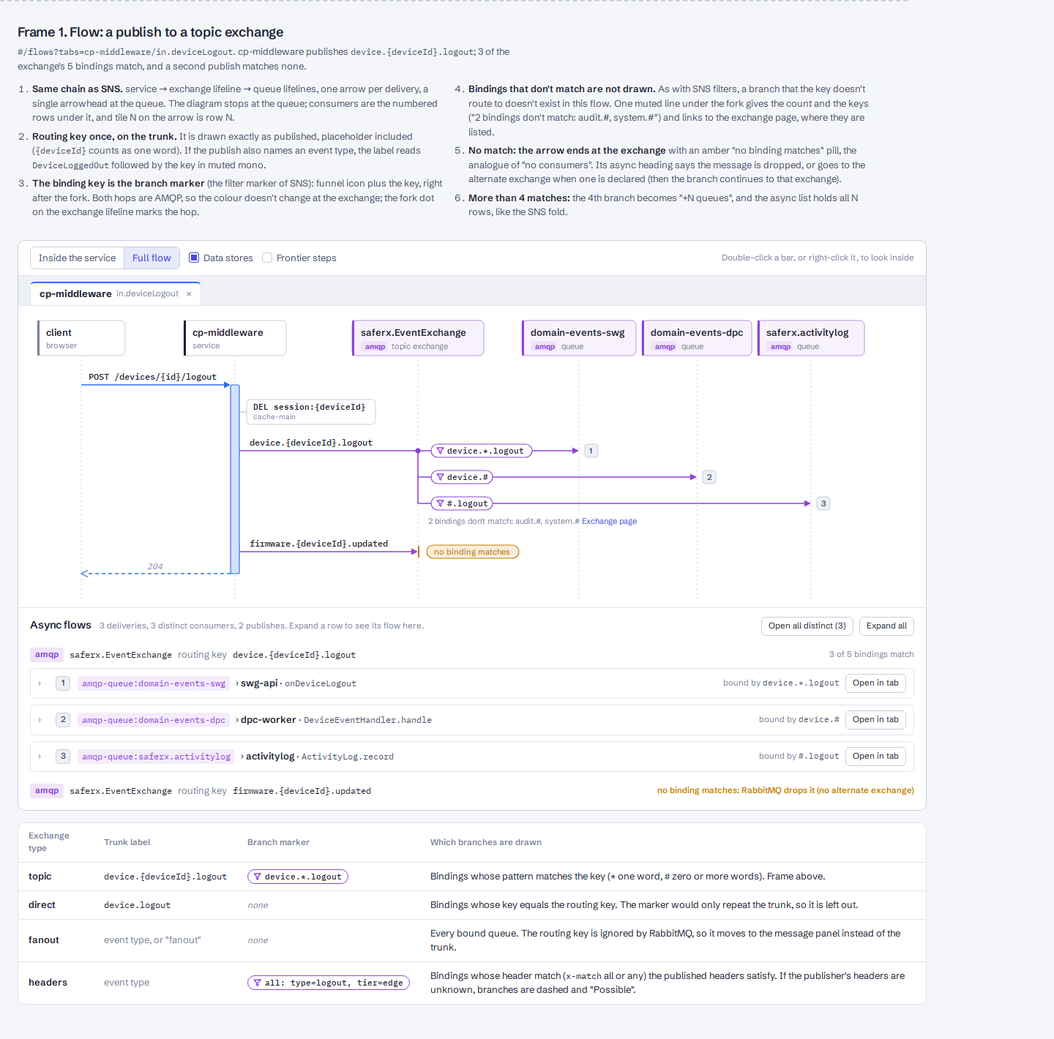
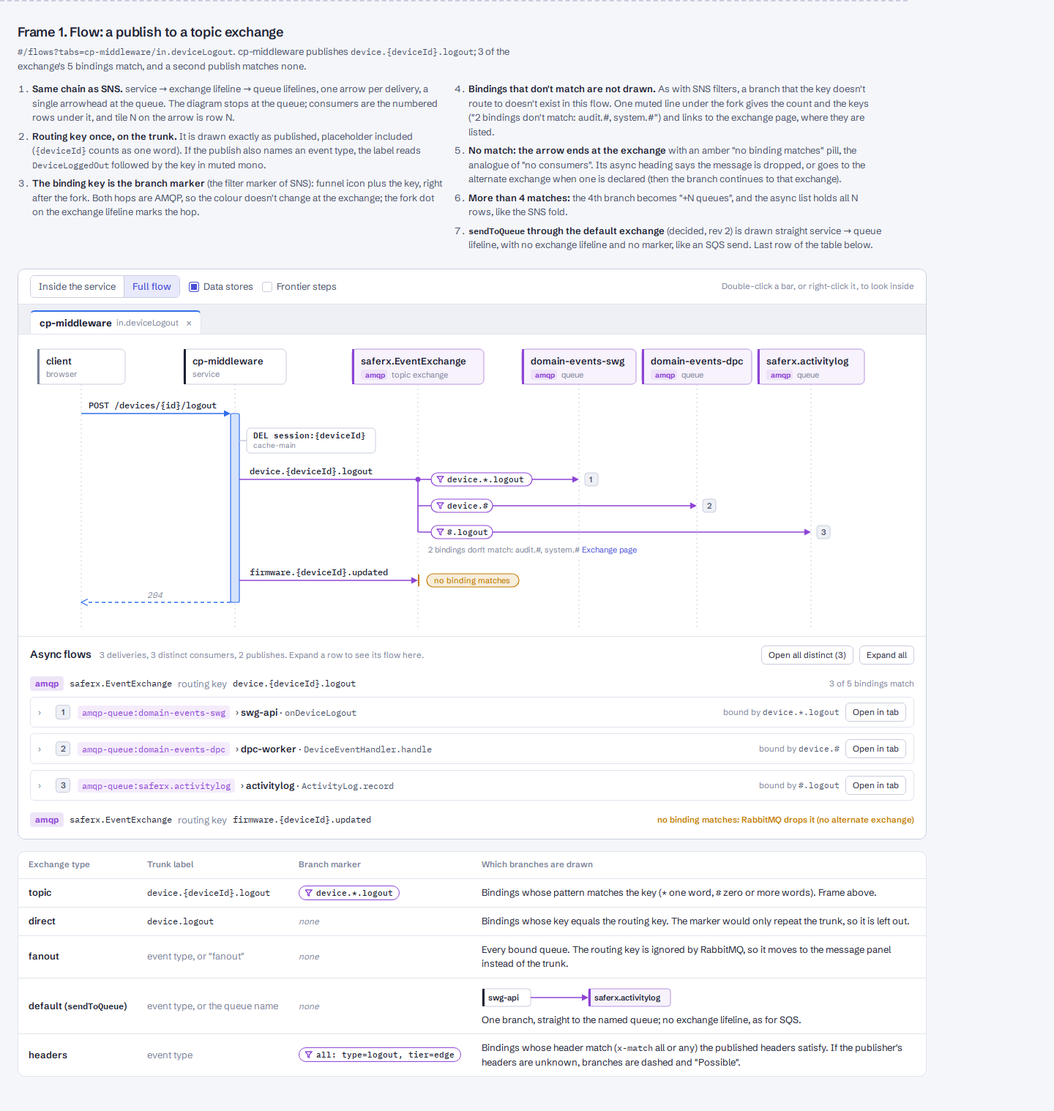
Mockup: RabbitMQ rev 2 (RPC over AMQP in olive, AMQP messages in grape, sendToQueue drawn straight to the queue, decisions recorded)

diff --git a/design/mockups/rabbitmq.html b/design/mockups/rabbitmq.html
@@ -76,8 +76,9 @@ table.spec { width: 100%; border-collapse: collapse; font-size: var(--fs-xs); }
 .kind.amqp { background: color-mix(in srgb, var(--t-amqp) 14%, var(--surface)); color: var(--t-amqp); }
 .kind.http { background: color-mix(in srgb, var(--t-http) 12%, var(--surface)); color: var(--t-http); }
 .kind.res { background: var(--surface-2); color: var(--ink-2); }
+.kind.rpc { background: color-mix(in srgb, var(--t-rpc) 14%, var(--surface)); color: var(--t-rpc); }
 .kind .ln { width: 12px; height: 2px; background: currentColor; border-radius: 1px; }
-.rpcchip { display: inline-flex; align-items: center; gap: 4px; height: 18px; padding: 0 6px; border-radius: 9px; border: 1px solid var(--t-amqp); color: var(--t-amqp); font: 600 10.5px/1 var(--font); background: var(--surface); white-space: nowrap; }
+.rpcchip { display: inline-flex; align-items: center; gap: 4px; height: 18px; padding: 0 6px; border-radius: 9px; border: 1px solid var(--t-rpc); color: var(--t-rpc); font: 600 10.5px/1 var(--font); background: var(--surface); white-space: nowrap; }
 .rpcchip svg { width: 11px; height: 11px; stroke: currentColor; fill: none; stroke-width: 1.6; }
 .btn { display: inline-flex; align-items: center; height: 30px; padding: 0 12px; border: 1px solid var(--line-strong); border-radius: var(--r-sm); color: var(--accent); background: var(--surface); font-size: var(--fs-sm); white-space: nowrap; }
 .btn.sm { height: 26px; padding: 0 9px; font-size: var(--fs-xs); color: var(--ink); }
@@ -114,11 +115,12 @@ svg text { font-family: var(--mono); }
 .rchip { fill: color-mix(in srgb, var(--t-amqp) 15%, var(--surface)); }
 .ll { stroke: var(--line-strong); stroke-dasharray: 2 4; }
 .s { fill: none; stroke-width: 1.6; }
-.s.http { stroke: var(--t-http); } .s.amqp { stroke: var(--t-amqp); } .s.bad { stroke: var(--t-broken); stroke-dasharray: 5 4; }
+.s.http { stroke: var(--t-http); } .s.rpc { stroke: var(--t-rpc); } .s.amqp { stroke: var(--t-amqp); } .s.bad { stroke: var(--t-broken); stroke-dasharray: 5 4; }
 .s.ret { stroke-dasharray: 5 4; stroke-width: 1.3; }
-.f-http { fill: var(--t-http); } .f-amqp { fill: var(--t-amqp); } .f-bad { fill: var(--t-broken); } .f-warn { fill: var(--warn); }
-.o-http { fill: none; stroke: var(--t-http); stroke-width: 1.3; } .o-amqp { fill: none; stroke: var(--t-amqp); stroke-width: 1.3; }
+.f-http { fill: var(--t-http); } .f-rpc { fill: var(--t-rpc); } .f-amqp { fill: var(--t-amqp); } .f-bad { fill: var(--t-broken); } .f-warn { fill: var(--warn); }
+.o-http { fill: none; stroke: var(--t-http); stroke-width: 1.3; } .o-amqp { fill: none; stroke: var(--t-amqp); stroke-width: 1.3; } .o-rpc { fill: none; stroke: var(--t-rpc); stroke-width: 1.3; }
 .bar-http { fill: color-mix(in srgb, var(--t-http) 20%, var(--surface)); stroke: var(--t-http); stroke-width: 1.2; }
+.bar-rpc { fill: color-mix(in srgb, var(--t-rpc) 22%, var(--surface)); stroke: var(--t-rpc); stroke-width: 1.2; }
 .bar-amqp { fill: color-mix(in srgb, var(--t-amqp) 22%, var(--surface)); stroke: var(--t-amqp); stroke-width: 1.2; }
 .lbl { font: 500 11.5px var(--mono); fill: var(--ink); }
 .lbl.bad { fill: var(--t-broken); }
@@ -130,16 +132,16 @@ svg text { font-family: var(--mono); }
 .pill.warn text { font: 500 11px var(--font); fill: var(--warn); }
 .pill.bad rect { fill: color-mix(in srgb, var(--t-broken) 10%, var(--surface)); stroke: var(--t-broken); }
 .pill.bad text { font: 600 10.5px var(--font); fill: var(--t-broken); }
-.pill.rpc text { font: 600 10.5px var(--font); fill: var(--t-amqp); }
+.pill.rpc rect { stroke: var(--t-rpc); } .pill.rpc path { stroke: var(--t-rpc); } .pill.rpc text { font: 600 10.5px var(--font); fill: var(--t-rpc); }
 .tile rect { fill: var(--surface-2); stroke: var(--line-strong); }
 .tile text { font: 600 11px var(--font); fill: var(--ink-2); }
 .store rect { fill: var(--surface); stroke: var(--line-strong); }
 .store .k { font: 600 11px var(--mono); fill: var(--ink); } .store .c { font: 400 10px var(--font); fill: var(--muted); }
 .note-bg { fill: var(--surface); }
 .note { font: 400 11px var(--font); fill: var(--muted); } .note a, .note .lk { fill: var(--accent); }
-.halo { fill: none; stroke: var(--t-amqp); stroke-opacity: .2; stroke-width: 10; stroke-linecap: round; }
+.halo { fill: none; stroke: var(--t-rpc); stroke-opacity: .2; stroke-width: 10; stroke-linecap: round; }
 .loopb rect { fill: var(--surface-2); stroke: var(--line-strong); } .loopb text { font: 600 10.5px var(--font); fill: var(--ink-2); }
-.glyph { fill: var(--surface); stroke: var(--t-amqp); stroke-width: 1.3; }
+
 
 /* Async list */
 .async { background: var(--surface); border-top: 1px solid var(--line); padding: var(--s3) var(--s4) var(--s4); display: grid; gap: var(--s2); }
@@ -228,6 +230,7 @@ table.t { width: 100%; border-collapse: collapse; font-size: var(--fs-sm); }
 .inv-top h1 { font-size: var(--fs-lg); }
 .t .typ { color: var(--ink-2); white-space: nowrap; }
 .t .kindc { font: 700 var(--fs-xs) var(--font); padding: 2px 7px; border-radius: 4px; background: var(--surface-2); color: var(--ink-2); white-space: nowrap; }
+.t .kindc.rpc { background: color-mix(in srgb, var(--t-rpc) 14%, var(--surface)); color: var(--t-rpc); }
 .t .kindc.amqp { background: color-mix(in srgb, var(--t-amqp) 12%, var(--surface)); color: var(--t-amqp); }
 .t .prob { text-align: right; color: var(--muted); } .t .prob.bad { color: var(--bad); font-weight: 600; }
 .t .nm { font-family: var(--mono); font-weight: 600; white-space: nowrap; }
@@ -250,6 +253,7 @@ table.t { width: 100%; border-collapse: collapse; font-size: var(--fs-sm); }
 .ep .s2 a { white-space: nowrap; }
 .ep.http { box-shadow: inset -3px 0 0 var(--t-http); }
 .ep.out { box-shadow: inset 3px 0 0 var(--t-amqp); }
+.ep.rpc { box-shadow: inset -3px 0 0 var(--t-rpc); } .ep.out.rpc { box-shadow: inset 3px 0 0 var(--t-rpc); }
 .center { border: 2px solid var(--ink); border-radius: 12px; background: var(--surface); padding: var(--s4); text-align: center; display: grid; gap: 8px; font-size: var(--fs-sm); color: var(--ink-2); }
 .center b { font-size: var(--fs-md); color: var(--ink); }
 .callers { display: grid; gap: 0; }
@@ -259,18 +263,18 @@ table.t { width: 100%; border-collapse: collapse; font-size: var(--fs-sm); }
 .caller .mono { color: var(--ink-2); }
 
 @media (max-width: 1100px) { .split { grid-template-columns: 1fr; } .split > .pane { border-left: 0; border-top: 1px solid var(--line); } .svcgrid { grid-template-columns: 1fr; } }
-@media (max-width: 760px) { .stage, .frame-label, .chrome { padding-left: 16px; padding-right: 16px; } .arow { grid-template-columns: 16px 22px 1fr; } .arow .by, .arow .btn { display: none; } .tester input { width: 100%; } }
+@media (max-width: 760px) { .stage, .frame-label, .chrome { padding-left: 16px; padding-right: 16px; } .arow { grid-template-columns: 16px 22px 1fr; } .arow .q, .arow .who { grid-column: 3; justify-self: start; } .arow .by, .arow .btn { display: none; } .tester input { width: 100%; } }
 </style>
 </head>
 <body>
 
 <div class="chrome">
   <h1>RabbitMQ: topic exchanges, bindings and RPC over queues</h1>
-  <p class="lead">Static mockup for the maintainer. Data: what the harvester found in a real Node service (namespace <span class="mono">saferx</span>): a topic exchange <span class="mono">saferx.EventExchange</span> with queues bound by key, and many in-house RPCv2 commands such as <span class="mono">rpc.sxdns.dns.resolve</span>. Five frames: two flow diagrams, the exchange page, the inventory and the RPC server's service page. Tokens, chips, toolbar, tabs and the docked panel are the app's own (0.17.3); the app rail is left out.</p>
+  <p class="lead"><b>Revision 2</b> (the maintainer's answers applied; see "Decided" at the end). Static mockup for the maintainer. Data: what the harvester found in a real Node service (namespace <span class="mono">saferx</span>): a topic exchange <span class="mono">saferx.EventExchange</span> with queues bound by key, and many in-house RPCv2 commands such as <span class="mono">rpc.sxdns.dns.resolve</span>. Five frames: two flow diagrams, the exchange page, the inventory and the RPC server's service page. Tokens, chips, toolbar, tabs and the docked panel are the app's own (0.17.3); the app rail is left out.</p>
   <div class="theme" role="group" aria-label="Theme"><button data-t="system" aria-pressed="true">System</button><button data-t="light" aria-pressed="false">Light</button><button data-t="dark" aria-pressed="false">Dark</button></div>
   <ol class="decisions">
-    <li><b>AMQP colour: keep the token, retune it.</b> <span class="mono">--t-amqp</span> already exists (violet <span class="mono">#8a5cf0</span>), but beside the indigo accent (links, "internal calls" pills, selected tab) and <span class="mono">--flow-5</span> it reads as the same family. Proposal: grape <span class="mono">#8e44d6</span> light, <span class="mono">#c58cff</span> dark: 30° further from the accent, still clear of EventBridge pink and <span class="mono">--flow-6</span>, over 5:1 on white. RabbitMQ's brand orange is out: it is SNS.</li>
-    <li><b>Colour is the wire, shape is the mode.</b> A publish and an RPC call are both AMQP, so both are grape. A publish is a chain service → exchange → queue that ends at the queue. An RPC is a solid request into the server's bar with a dashed reply, like HTTP. The "amqp rpc" chip tells the two apart, so <span class="mono">--t-rpc</span> (olive) stays for RPC frameworks with their own wire.</li>
+    <li><b>AMQP colour: keep the token, retune it</b> (decided, rev 2). <span class="mono">--t-amqp</span> already exists (violet <span class="mono">#8a5cf0</span>), but beside the indigo accent (links, "internal calls" pills, selected tab) and <span class="mono">--flow-5</span> it reads as the same family. Now grape <span class="mono">#8e44d6</span> light, <span class="mono">#c58cff</span> dark: 30° further from the accent, still clear of EventBridge pink and <span class="mono">--flow-6</span>, over 5:1 on white. RabbitMQ's brand orange is out: it is SNS.</li>
+    <li><b>Grape is messages, olive is request and reply</b> (decided, rev 2). Exchange publishes, queue deliveries, exchange and queue chips, the exchange page and inventory rows are grape <span class="mono">--t-amqp</span>. RPC over AMQP is olive <span class="mono">--t-rpc</span> everywhere: the arrow, the reply, the server's bar entered by RPC, the "amqp rpc" chip, the RPC ingress group, RPC inventory rows and panel accents. The chip and the panel still say the wire is AMQP. Frame 2b has both in one flow.</li>
   </ol>
   <div class="swatches">
     <span class="sw"><i style="background:var(--t-amqp-old)"></i>--t-amqp today</span>
@@ -295,6 +299,7 @@ table.t { width: 100%; border-collapse: collapse; font-size: var(--fs-sm); }
     <li><b>Bindings that don't match are not drawn.</b> As with SNS filters, a branch that the key doesn't route to doesn't exist in this flow. One muted line under the fork gives the count and the keys ("2 bindings don't match: audit.#, system.#") and links to the exchange page, where they are listed.</li>
     <li><b>No match: the arrow ends at the exchange</b> with an amber "no binding matches" pill, the analogue of "no consumers". Its async heading says the message is dropped, or goes to the alternate exchange when one is declared (then the branch continues to that exchange).</li>
     <li><b>More than 4 matches:</b> the 4th branch becomes "+N queues", and the async list holds all N rows, like the SNS fold.</li>
+    <li><b><span class="mono">sendToQueue</span> through the default exchange</b> (decided, rev 2) is drawn straight service → queue lifeline, with no exchange lifeline and no marker, like an SQS send. Last row of the table below.</li>
   </ol>
 </div>
 <div class="stage"><div class="window">
@@ -358,6 +363,7 @@ table.t { width: 100%; border-collapse: collapse; font-size: var(--fs-sm); }
       <tr><td>topic</td><td><span class="mono">device.{deviceId}.logout</span></td><td><span class="mk"><svg viewBox="0 0 10 10"><path d="M0 1h9l-3.5 4v4l-2-1v-3z"/></svg>device.*.logout</span></td><td>Bindings whose pattern matches the key (<span class="mono">*</span> one word, <span class="mono">#</span> zero or more words). Frame above.</td></tr>
       <tr><td>direct</td><td><span class="mono">device.logout</span></td><td><span class="nomk">none</span></td><td>Bindings whose key equals the routing key. The marker would only repeat the trunk, so it is left out.</td></tr>
       <tr><td>fanout</td><td><span class="muted">event type, or "fanout"</span></td><td><span class="nomk">none</span></td><td>Every bound queue. The routing key is ignored by RabbitMQ, so it moves to the message panel instead of the trunk.</td></tr>
+      <tr><td>default (<span class="mono">sendToQueue</span>)</td><td><span class="muted">event type, or the queue name</span></td><td><span class="nomk">none</span></td><td><svg viewBox="0 0 260 34" width="260" height="34" style="display:block;margin-bottom:4px" aria-label="swg-api sends straight to the queue saferx.activitylog"><rect class="hd" x="1" y="5" width="66" height="24" rx="4"/><rect class="st-svc" x="1" y="5" width="3" height="24"/><text class="tn" x="9" y="21" style="font-size:11px">swg-api</text><line class="s amqp" x1="67" y1="17" x2="139" y2="17"/><polygon class="f-amqp" points="146,17 137,12.5 137,21.5"/><rect class="hd amqp" x="146" y="5" width="112" height="24" rx="4"/><rect class="st-amqp" x="146" y="5" width="3" height="24"/><text class="tn" x="154" y="21" style="font-size:11px">saferx.activitylog</text></svg>One branch, straight to the named queue; no exchange lifeline, as for SQS.</td></tr>
       <tr><td>headers</td><td><span class="muted">event type</span></td><td><span class="mk"><svg viewBox="0 0 10 10"><path d="M0 1h9l-3.5 4v4l-2-1v-3z"/></svg>all: type=logout, tier=edge</span></td><td>Bindings whose header match (<span class="mono">x-match</span> all or any) the published headers satisfy. If the publisher's headers are unknown, branches are dashed and "Possible".</td></tr>
     </tbody>
   </table>
@@ -369,9 +375,9 @@ table.t { width: 100%; border-collapse: collapse; font-size: var(--fs-sm); }
   <h2>Frame 2. Flow: RPC over queues, drawn as a call</h2>
   <p><span class="mono">#/flows?tabs=swg-api/in.policyCheck</span>, with the first RPC arrow selected and its panel docked on the right (it squeezes the diagram; it never overlays it).</p>
   <ol class="decisions">
-    <li><b>An RPC is a sync call.</b> A solid grape arrow from the caller's bar into the server's bar, labelled with the command, then a dashed grape "reply". The command queue, reply queue and exchange are not lifelines: they are plumbing, and they live in the panel.</li>
-    <li><b>The server gets a normal activation bar</b>, coloured by the transport that entered it (grape), with its own stores, calls and nested RPCs. "Show inside sxdns" works as for HTTP.</li>
-    <li><b>Chip "amqp rpc"</b> under the command (the ⇄ icon means request and reply). It is what separates an RPC from an AMQP publish, which never has a reply and ends at a queue.</li>
+    <li><b>An RPC is a sync call.</b> A solid olive (<span class="mono">--t-rpc</span>) arrow from the caller's bar into the server's bar, labelled with the command, then a dashed olive "reply". The command queue, reply queue and exchange are not lifelines: they are plumbing, and they live in the panel.</li>
+    <li><b>The server gets a normal activation bar</b>, coloured by what entered it: olive for an RPC, with its own stores, calls and nested RPCs. "Show inside sxdns" works as for HTTP.</li>
+    <li><b>Chip "amqp rpc"</b> under the command (the ⇄ icon means request and reply). It says the wire is AMQP; the olive colour says it is a call. A grape AMQP publish never has a reply and ends at a queue (frame 2b shows both side by side).</li>
     <li><b>Panel:</b> command, caller and server with handler and source links, then the AMQP details (exchange, command queue, reply queue, correlation, timeout, library). Hover shows the same as a tooltip, in short.</li>
     <li><b>No harvested server:</b> red dashed arrow to the "unresolved" lifeline, the command in red, the chip "no server harvested", and no reply, as unresolved HTTP today. The panel says which harvester to look for: the one that consumes <span class="mono">rpcv2.policy</span>.</li>
     <li><b>Timeout:</b> when the harvester knows the call has a timeout handler, the reply reads "reply or timeout 5 s"; otherwise just "reply".</li>
@@ -394,19 +400,19 @@ table.t { width: 100%; border-collapse: collapse; font-size: var(--fs-sm); }
     <rect class="bar-http" x="214" y="96" width="12" height="286" rx="2"/>
     <!-- rpc 1 (selected) -->
     <line class="halo" x1="230" y1="140" x2="418" y2="140"/>
-    <line class="s amqp" x1="226" y1="140" x2="418" y2="140"/><polygon class="f-amqp" points="424,140 415,135.5 415,144.5"/>
+    <line class="s rpc" x1="226" y1="140" x2="418" y2="140"/><polygon class="f-rpc" points="424,140 415,135.5 415,144.5"/>
     <text class="lbl" x="240" y="133">rpc.sxdns.dns.resolve</text>
     <g class="pill rpc"><rect x="240" y="148" width="76" height="17" rx="8.5"/><path d="M248 153h9m-2.5-2.5 2.5 2.5-2.5 2.5M257 160h-9m2.5-2.5-2.5 2.5 2.5 2.5"/><text x="262" y="160.5">amqp rpc</text></g>
-    <rect class="bar-amqp" x="424" y="140" width="12" height="156" rx="2"/>
+    <rect class="bar-rpc" x="424" y="140" width="12" height="156" rx="2"/>
     <line class="s" style="stroke:var(--line-strong)" x1="436" y1="181" x2="446" y2="181"/>
     <g class="store"><rect x="446" y="164" width="150" height="34" rx="5"/><text class="k" x="455" y="178">GET dns:{domain}</text><text class="c" x="455" y="191">cache-main</text></g>
     <!-- rpc 2 nested -->
-    <line class="s amqp" x1="436" y1="230" x2="608" y2="230"/><polygon class="f-amqp" points="614,230 605,225.5 605,234.5"/>
+    <line class="s rpc" x1="436" y1="230" x2="608" y2="230"/><polygon class="f-rpc" points="614,230 605,225.5 605,234.5"/>
     <text class="lbl" x="450" y="223">rpc.cp.tenant.get</text>
     <g class="pill rpc"><rect x="450" y="238" width="76" height="17" rx="8.5"/><path d="M458 243h9m-2.5-2.5 2.5 2.5-2.5 2.5M467 250h-9m2.5-2.5-2.5 2.5 2.5 2.5"/><text x="472" y="250.5">amqp rpc</text></g>
-    <rect class="bar-amqp" x="614" y="230" width="12" height="38" rx="2"/>
-    <line class="s amqp ret" x1="614" y1="268" x2="444" y2="268"/><polyline class="o-amqp" points="445,263.5 436,268 445,272.5"/><text class="ret-t" x="530" y="262">reply</text>
-    <line class="s amqp ret" x1="424" y1="296" x2="234" y2="296"/><polyline class="o-amqp" points="235,291.5 226,296 235,300.5"/><text class="ret-t" x="250" y="290">reply or timeout 5 s</text>
+    <rect class="bar-rpc" x="614" y="230" width="12" height="38" rx="2"/>
+    <line class="s rpc ret" x1="614" y1="268" x2="444" y2="268"/><polyline class="o-rpc" points="445,263.5 436,268 445,272.5"/><text class="ret-t" x="530" y="262">reply</text>
+    <line class="s rpc ret" x1="424" y1="296" x2="234" y2="296"/><polyline class="o-rpc" points="235,291.5 226,296 235,300.5"/><text class="ret-t" x="250" y="290">reply or timeout 5 s</text>
     <!-- unresolved rpc -->
     <line class="s bad" x1="226" y1="336" x2="782" y2="336"/><polygon class="f-bad" points="790,336 781,331.5 781,340.5"/>
     <text class="lbl bad" x="630" y="329">rpc.policy.evaluate</text>
@@ -439,48 +445,52 @@ table.t { width: 100%; border-collapse: collapse; font-size: var(--fs-sm); }
 
 <div class="frame-label">
   <h2>Frame 2b. Many RPC calls in one flow</h2>
-  <p>cp-middleware's <span class="mono">in.deviceSync</span> makes 7 RPC calls to 3 services. Rules that keep it readable:</p>
+  <p>cp-middleware's <span class="mono">in.deviceSync</span> (entered over HTTP) makes 7 RPC calls to 3 services, then publishes one event. Rules that keep it readable:</p>
   <ol class="decisions">
     <li><b>The command is never shortened.</b> It is the subject of the arrow. It wraps after a dot when it is wider than the hop.</li>
     <li><b>The chip shows once per caller and server pair</b> (the first call); later calls to the same server get only the small ⇄ glyph at the arrow's start.</li>
     <li><b>Only the first reply per pair is labelled.</b> The others are bare dashed returns, unless they have a timeout, which is always written.</li>
     <li><b>A call made in a loop is one arrow with "×3 loop"</b>, taken from the loop frame of the steps; it is not drawn three times.</li>
+    <li><b>Olive and grape in one flow:</b> the RPCs are olive with replies; the last row is a grape publish to <span class="mono">saferx.EventExchange</span> with no reply and no bar (queue lifelines folded in this frame).</li>
     <li><b>Toolbar "RPC replies: Show | Hide"</b> (default Show). Hide turns each request and reply into a single arrow with a return tick on the server's bar, which halves the height of RPC-heavy flows.</li>
   </ol>
 </div>
 <div class="stage"><div class="window">
   <div class="diagram">
-  <svg viewBox="0 0 960 376" width="960" height="376" role="img" aria-label="cp-middleware calls five RPC commands on sxdns, activitylog and swg-api">
+  <svg viewBox="0 0 1160 420" width="1160" height="420" role="img" aria-label="cp-middleware calls five RPC commands on sxdns, activitylog and swg-api">
     <rect class="hd" x="40" y="8" width="140" height="48" rx="6"/><rect class="st-svc" x="40" y="8" width="3" height="48"/><text class="tn" x="52" y="29">cp-middleware</text><text class="ts" x="52" y="46">service</text>
     <rect class="hd" x="330" y="8" width="120" height="48" rx="6"/><rect class="st-svc" x="330" y="8" width="3" height="48"/><text class="tn" x="342" y="29">sxdns</text><text class="ts" x="342" y="46">service</text>
     <rect class="hd" x="560" y="8" width="130" height="48" rx="6"/><rect class="st-svc" x="560" y="8" width="3" height="48"/><text class="tn" x="572" y="29">activitylog</text><text class="ts" x="572" y="46">service</text>
     <rect class="hd" x="790" y="8" width="120" height="48" rx="6"/><rect class="st-svc" x="790" y="8" width="3" height="48"/><text class="tn" x="802" y="29">swg-api</text><text class="ts" x="802" y="46">service</text>
-    <line class="ll" x1="110" y1="56" x2="110" y2="374"/><line class="ll" x1="390" y1="56" x2="390" y2="374"/><line class="ll" x1="625" y1="56" x2="625" y2="374"/><line class="ll" x1="850" y1="56" x2="850" y2="374"/>
-    <rect class="bar-amqp" x="104" y="70" width="12" height="298" rx="2"/>
-    <line class="s amqp" x1="116" y1="96" x2="378" y2="96"/><polygon class="f-amqp" points="384,96 375,91.5 375,100.5"/><text class="lbl" x="130" y="89">rpc.sxdns.dns.resolve</text>
+    <line class="ll" x1="110" y1="56" x2="110" y2="416"/><line class="ll" x1="390" y1="56" x2="390" y2="416"/><line class="ll" x1="625" y1="56" x2="625" y2="416"/><line class="ll" x1="850" y1="56" x2="850" y2="416"/>
+    <rect class="hd amqp" x="950" y="8" width="172" height="48" rx="6"/><rect class="st-amqp" x="950" y="8" width="3" height="48"/><text class="tn" x="962" y="29">saferx.EventExchange</text><rect class="rchip" x="962" y="36" width="36" height="14" rx="3"/><text class="tchip" x="968" y="47">amqp</text><text class="ts" x="1004" y="47">topic exchange</text>
+    <line class="ll" x1="1036" y1="56" x2="1036" y2="416"/>
+    <rect class="bar-http" x="104" y="70" width="12" height="336" rx="2"/>
+    <line class="s amqp" x1="116" y1="392" x2="1036" y2="392"/><circle class="f-amqp" cx="1036" cy="392" r="3.5"/><text class="lbl" x="130" y="385">audit.device.synced</text><text class="note" x="1044" y="388">→ domain-events</text><text class="note" x="1044" y="401">via audit.#</text>
+    <line class="s rpc" x1="116" y1="96" x2="378" y2="96"/><polygon class="f-rpc" points="384,96 375,91.5 375,100.5"/><text class="lbl" x="130" y="89">rpc.sxdns.dns.resolve</text>
     <g class="pill rpc"><rect x="286" y="74" width="76" height="17" rx="8.5"/><path d="M294 79h9m-2.5-2.5 2.5 2.5-2.5 2.5M303 86h-9m2.5-2.5-2.5 2.5 2.5 2.5"/><text x="308" y="86.5">amqp rpc</text></g>
-    <rect class="bar-amqp" x="384" y="96" width="12" height="26" rx="2"/>
-    <line class="s amqp ret" x1="384" y1="122" x2="124" y2="122"/><polyline class="o-amqp" points="125,117.5 116,122 125,126.5"/>
+    <rect class="bar-rpc" x="384" y="96" width="12" height="26" rx="2"/>
+    <line class="s rpc ret" x1="384" y1="122" x2="124" y2="122"/><polyline class="o-rpc" points="125,117.5 116,122 125,126.5"/>
     <text class="ret-t" x="339" y="116">reply</text>
-    <path d="M120 150h8m-2-2 2 2-2 2M128 155h-8m2-2-2 2 2 2" style="fill:none;stroke:var(--t-amqp);stroke-width:1.2"/>
-    <line class="s amqp" x1="132" y1="156" x2="378" y2="156"/><polygon class="f-amqp" points="384,156 375,151.5 375,160.5"/><text class="lbl" x="140" y="149">rpc.sxdns.zone.get</text>
-    <rect class="bar-amqp" x="384" y="156" width="12" height="26" rx="2"/>
-    <line class="s amqp ret" x1="384" y1="182" x2="124" y2="182"/><polyline class="o-amqp" points="125,177.5 116,182 125,186.5"/>
-    <line class="s amqp" x1="116" y1="216" x2="613" y2="216"/><polygon class="f-amqp" points="619,216 610,211.5 610,220.5"/><text class="lbl" x="130" y="209">rpc.activitylog.write</text>
+    <path d="M120 150h8m-2-2 2 2-2 2M128 155h-8m2-2-2 2 2 2" style="fill:none;stroke:var(--t-rpc);stroke-width:1.2"/>
+    <line class="s rpc" x1="132" y1="156" x2="378" y2="156"/><polygon class="f-rpc" points="384,156 375,151.5 375,160.5"/><text class="lbl" x="140" y="149">rpc.sxdns.zone.get</text>
+    <rect class="bar-rpc" x="384" y="156" width="12" height="26" rx="2"/>
+    <line class="s rpc ret" x1="384" y1="182" x2="124" y2="182"/><polyline class="o-rpc" points="125,177.5 116,182 125,186.5"/>
+    <line class="s rpc" x1="116" y1="216" x2="613" y2="216"/><polygon class="f-rpc" points="619,216 610,211.5 610,220.5"/><text class="lbl" x="130" y="209">rpc.activitylog.write</text>
     <g class="loopb"><rect x="286" y="195" width="58" height="16" rx="4"/><text x="293" y="207">×3 loop</text></g>
     <g class="pill rpc"><rect x="352" y="194" width="76" height="17" rx="8.5"/><path d="M360 199h9m-2.5-2.5 2.5 2.5-2.5 2.5M369 206h-9m2.5-2.5-2.5 2.5 2.5 2.5"/><text x="374" y="206.5">amqp rpc</text></g>
-    <rect class="bar-amqp" x="619" y="216" width="12" height="26" rx="2"/>
-    <line class="s amqp ret" x1="619" y1="242" x2="124" y2="242"/><polyline class="o-amqp" points="125,237.5 116,242 125,246.5"/>
+    <rect class="bar-rpc" x="619" y="216" width="12" height="26" rx="2"/>
+    <line class="s rpc ret" x1="619" y1="242" x2="124" y2="242"/><polyline class="o-rpc" points="125,237.5 116,242 125,246.5"/>
     <text class="ret-t" x="574" y="236">reply</text>
-    <line class="s amqp" x1="116" y1="276" x2="838" y2="276"/><polygon class="f-amqp" points="844,276 835,271.5 835,280.5"/><text class="lbl" x="130" y="269">rpc.swg.policy.push</text>
+    <line class="s rpc" x1="116" y1="276" x2="838" y2="276"/><polygon class="f-rpc" points="844,276 835,271.5 835,280.5"/><text class="lbl" x="130" y="269">rpc.swg.policy.push</text>
     <g class="pill rpc"><rect x="272" y="254" width="76" height="17" rx="8.5"/><path d="M280 259h9m-2.5-2.5 2.5 2.5-2.5 2.5M289 266h-9m2.5-2.5-2.5 2.5 2.5 2.5"/><text x="294" y="266.5">amqp rpc</text></g>
-    <rect class="bar-amqp" x="844" y="276" width="12" height="26" rx="2"/>
-    <line class="s amqp ret" x1="844" y1="302" x2="124" y2="302"/><polyline class="o-amqp" points="125,297.5 116,302 125,306.5"/>
+    <rect class="bar-rpc" x="844" y="276" width="12" height="26" rx="2"/>
+    <line class="s rpc ret" x1="844" y1="302" x2="124" y2="302"/><polyline class="o-rpc" points="125,297.5 116,302 125,306.5"/>
     <text class="ret-t" x="693" y="296">reply or timeout 30 s</text>
-    <path d="M120 330h8m-2-2 2 2-2 2M128 335h-8m2-2-2 2 2 2" style="fill:none;stroke:var(--t-amqp);stroke-width:1.2"/>
-    <line class="s amqp" x1="132" y1="336" x2="378" y2="336"/><polygon class="f-amqp" points="384,336 375,331.5 375,340.5"/><text class="lbl" x="140" y="329">rpc.sxdns.cache.flush</text>
-    <rect class="bar-amqp" x="384" y="336" width="12" height="26" rx="2"/>
-    <line class="s amqp ret" x1="384" y1="362" x2="124" y2="362"/><polyline class="o-amqp" points="125,357.5 116,362 125,366.5"/>
+    <path d="M120 330h8m-2-2 2 2-2 2M128 335h-8m2-2-2 2 2 2" style="fill:none;stroke:var(--t-rpc);stroke-width:1.2"/>
+    <line class="s rpc" x1="132" y1="336" x2="378" y2="336"/><polygon class="f-rpc" points="384,336 375,331.5 375,340.5"/><text class="lbl" x="140" y="329">rpc.sxdns.cache.flush</text>
+    <rect class="bar-rpc" x="384" y="336" width="12" height="26" rx="2"/>
+    <line class="s rpc ret" x1="384" y1="362" x2="124" y2="362"/><polyline class="o-rpc" points="125,357.5 116,362 125,366.5"/>
   </svg>
   </div>
 </div></div>
@@ -555,6 +565,7 @@ table.t { width: 100%; border-collapse: collapse; font-size: var(--fs-sm); }
     <li><b>Exchanges and queues are ordinary rows</b> with the grape kind chip; an exchange's chip carries its type. Connections reads in the kind's own words ("3 publishers, 5 bindings"; "bound by audit.#, 1 consumer").</li>
     <li><b>RPC queues are hidden by default.</b> Command queues (<span class="mono">rpcv2.sxdns</span>) and reply queues are plumbing; the thing an engineer looks for is the command, which is listed as an entry point of its server (frame 5) and gets its own type "RPC command" in the All tab.</li>
     <li><b>One fold row says what is hidden</b> and why, with "Show RPC queues". Shown, they are muted rows whose Connections names the commands they carry. Reply queues are never listed one by one (one per caller process); they appear as one row per caller.</li>
+    <li><b>RPC rows are olive</b> (decided, rev 2): RPC commands in their tab and the RPC queues when shown carry the olive chip; exchanges and queues stay grape.</li>
     <li><b>The kind filter gets "AMQP"</b> next to the data-store chips, so exchanges, queues and RPC commands can be filtered together.</li>
   </ol>
 </div>
@@ -580,8 +591,8 @@ table.t { width: 100%; border-collapse: collapse; font-size: var(--fs-sm); }
   <p class="sm muted" style="margin:-8px 0 0">With "Show RPC queues" on, the fold row opens into muted rows:</p>
   <section class="section"><div class="scroll"><table class="t">
     <tbody>
-      <tr class="plumb"><td class="nm" style="color:var(--ink-2)"><svg viewBox="0 0 24 24"><rect x="3" y="7" width="18" height="10" rx="2"/><path d="M8 7v10M13 7v10"/></svg>rpcv2.sxdns</td><td class="typ">Channel</td><td><span class="kindc amqp">rpc command queue</span></td><td>dns</td><td>carries 4 commands of sxdns: <span class="mono">rpc.sxdns.dns.resolve</span>, <span class="mono">rpc.sxdns.zone.get</span>, +2 more</td><td class="prob">0</td></tr>
-      <tr class="plumb"><td class="nm" style="color:var(--ink-2)"><svg viewBox="0 0 24 24"><rect x="3" y="7" width="18" height="10" rx="2"/><path d="M8 7v10M13 7v10"/></svg>rpcv2.reply.swg-api.*</td><td class="typ">Channel</td><td><span class="kindc amqp">rpc reply queues</span></td><td>gateway</td><td>replies to swg-api's 3 commands, one exclusive queue per process</td><td class="prob">0</td></tr>
+      <tr class="plumb"><td class="nm" style="color:var(--ink-2)"><svg viewBox="0 0 24 24"><rect x="3" y="7" width="18" height="10" rx="2"/><path d="M8 7v10M13 7v10"/></svg>rpcv2.sxdns</td><td class="typ">Channel</td><td><span class="kindc rpc">rpc command queue</span></td><td>dns</td><td>carries 4 commands of sxdns: <span class="mono">rpc.sxdns.dns.resolve</span>, <span class="mono">rpc.sxdns.zone.get</span>, +2 more</td><td class="prob">0</td></tr>
+      <tr class="plumb"><td class="nm" style="color:var(--ink-2)"><svg viewBox="0 0 24 24"><rect x="3" y="7" width="18" height="10" rx="2"/><path d="M8 7v10M13 7v10"/></svg>rpcv2.reply.swg-api.*</td><td class="typ">Channel</td><td><span class="kindc rpc">rpc reply queues</span></td><td>gateway</td><td>replies to swg-api's 3 commands, one exclusive queue per process</td><td class="prob">0</td></tr>
     </tbody>
   </table></div></section>
   </div>
@@ -592,7 +603,7 @@ table.t { width: 100%; border-collapse: collapse; font-size: var(--fs-sm); }
   <h2>Frame 5. Service page: an RPC server's commands as entry points</h2>
   <p><span class="mono">#/services/sxdns</span>, Connections tab, with the endpoint <span class="mono">rpc.sxdns.dns.resolve</span> selected (its panel is docked).</p>
   <ol class="decisions">
-    <li><b>Commands are ingress, like HTTP routes:</b> a group "amqp rpc" with one row per command: the command in mono, its handler, and "from" the harvested callers. The group header names the command queue once.</li>
+    <li><b>Commands are ingress, like HTTP routes:</b> an olive group "amqp rpc" with one row per command: the command in mono, its handler, and "from" the harvested callers. The group header names the command queue once.</li>
     <li><b>A command with no harvested caller</b> says so in muted text ("no harvested caller"). It is not a problem: callers may be outside the harvest, and the server works without them.</li>
     <li><b>Egress mirrors it:</b> sxdns's own RPC calls are an "amqp rpc" egress group, and its publishes sit in an "amqp" group with the routing key and the exchange.</li>
     <li><b>Endpoint panel:</b> callers, each with its function, source link and timeout (callers often differ), the server's handler and the AMQP plumbing. "Trace a flow from here" opens the Flows tab on this command.</li>
@@ -611,11 +622,11 @@ table.t { width: 100%; border-collapse: collapse; font-size: var(--fs-sm); }
           <div>
             <div class="colh">Ingress <small>6</small></div>
             <div class="grp">
-              <div class="gh"><span class="kind amqp"><span class="ln"></span>amqp rpc</span><span class="n">4</span><span>command queue <span class="mono">rpcv2.sxdns</span></span></div>
-              <div class="ep sel"><span class="k">rpc.sxdns.dns.resolve</span><span class="s2">handler <code>DnsController.resolve</code> from <a href="#">swg-api</a>, <a href="#">cp-middleware</a></span></div>
-              <div class="ep"><span class="k">rpc.sxdns.zone.get</span><span class="s2">handler <code>ZoneController.get</code> from <a href="#">cp-middleware</a></span></div>
-              <div class="ep"><span class="k">rpc.sxdns.cache.flush</span><span class="s2">handler <code>CacheController.flush</code> from <a href="#">cp-middleware</a></span></div>
-              <div class="ep"><span class="k">rpc.sxdns.dns.override</span><span class="s2">handler <code>DnsController.override</code> <span class="muted">no harvested caller</span></span></div>
+              <div class="gh"><span class="kind rpc"><span class="ln"></span>amqp rpc</span><span class="n">4</span><span>command queue <span class="mono">rpcv2.sxdns</span></span></div>
+              <div class="ep rpc sel"><span class="k">rpc.sxdns.dns.resolve</span><span class="s2">handler <code>DnsController.resolve</code> from <a href="#">swg-api</a>, <a href="#">cp-middleware</a></span></div>
+              <div class="ep rpc"><span class="k">rpc.sxdns.zone.get</span><span class="s2">handler <code>ZoneController.get</code> from <a href="#">cp-middleware</a></span></div>
+              <div class="ep rpc"><span class="k">rpc.sxdns.cache.flush</span><span class="s2">handler <code>CacheController.flush</code> from <a href="#">cp-middleware</a></span></div>
+              <div class="ep rpc"><span class="k">rpc.sxdns.dns.override</span><span class="s2">handler <code>DnsController.override</code> <span class="muted">no harvested caller</span></span></div>
             </div>
             <div class="grp">
               <div class="gh"><span class="kind amqp"><span class="ln"></span>amqp</span><span class="n">1</span></div>
@@ -630,8 +641,8 @@ table.t { width: 100%; border-collapse: collapse; font-size: var(--fs-sm); }
           <div>
             <div class="colh">Egress <small>3</small></div>
             <div class="grp">
-              <div class="gh"><span class="kind amqp"><span class="ln"></span>amqp rpc</span><span class="n">1</span></div>
-              <div class="ep out"><span class="k">rpc.cp.tenant.get</span><span class="s2">→ <a href="#">cp-middleware</a> <code>TenantController.get</code></span></div>
+              <div class="gh"><span class="kind rpc"><span class="ln"></span>amqp rpc</span><span class="n">1</span></div>
+              <div class="ep out rpc"><span class="k">rpc.cp.tenant.get</span><span class="s2">→ <a href="#">cp-middleware</a> <code>TenantController.get</code></span></div>
             </div>
             <div class="grp">
               <div class="gh"><span class="kind amqp"><span class="ln"></span>amqp</span><span class="n">1</span></div>
@@ -677,19 +688,19 @@ table.t { width: 100%; border-collapse: collapse; font-size: var(--fs-sm); }
       <tr><td>details.bindingKey</td><td>binding</td><td>the raw key for the marker, as written in code (<span class="mono">#</span> not <span class="mono">**</span>)</td><td>new, optional</td></tr>
       <tr><td>details.headers, xMatch</td><td>binding (headers exchange) and publish egress</td><td>headers marker and matching</td><td>new, optional</td></tr>
       <tr><td>details.exchange, routingKey</td><td>amqp publish egress</td><td>trunk label; placeholders like <span class="mono">{deviceId}</span> count as one word when matching</td><td>used by samples, document it</td></tr>
-      <tr><td>amqp-rpc:{command}</td><td>bind key (egress and ingress)</td><td>joins caller and server by command; the client knows the command, not always the server's service name</td><td>new key form</td></tr>
+      <tr><td>amqp-rpc:{command}</td><td>bind key (egress and ingress), decided</td><td>joins caller and server by command; the client knows the command, not always the server's service name</td><td>new key form</td></tr>
       <tr><td>transport amqp + mode sync</td><td>RPC egress / ingress</td><td>draws a call with a reply; unicast by default for sync amqp</td><td>exists; default delivery rule changes</td></tr>
       <tr><td>details.rpc</td><td>RPC egress and ingress</td><td><span class="mono">{command, commandQueue, replyTo, exchange, correlation, timeoutMs, library}</span>; ingress adds <span class="mono">prefetch</span></td><td>new, optional</td></tr>
       <tr><td>details.role</td><td>amqp-queue channel</td><td><span class="mono">rpc-command</span> | <span class="mono">rpc-reply</span>: the inventory fold</td><td>new, optional</td></tr>
     </tbody>
   </table></section>
-  <section><h3>Open questions for the maintainer</h3><ol>
-    <li><b>Retune <span class="mono">--t-amqp</span></b> to grape (#8e44d6 / #c58cff), or keep today's violet and accept that it sits near the accent?</li>
-    <li><b>RPC colour:</b> grape (the wire is AMQP), as drawn, or olive <span class="mono">--t-rpc</span> (it behaves like an RPC)?</li>
-    <li><b>RPC key:</b> <span class="mono">amqp-rpc:{command}</span>, or reuse <span class="mono">rpc:{service}/{command}</span> when the command prefix names the service (<span class="mono">rpc.sxdns.*</span>)?</li>
-    <li><b>Non-matching bindings</b> in a flow: one muted line with the count and keys (drawn), or nothing at all?</li>
-    <li><b><span class="mono">sendToQueue</span></b> through the default exchange (not RPC): draw service → queue with no exchange lifeline?</li>
-    <li><b>Route:</b> the exchange page at <span class="mono">#/instances/amqp:…</span> (asked for) while queues stay at <span class="mono">#/channels/…</span>; or move both under one route?</li>
+  <section><h3>Decided (rev 2)</h3><ol>
+    <li><b>AMQP colour:</b> <span class="mono">--t-amqp</span> is retuned to grape (#8e44d6 light, #c58cff dark) for exchange publishes, queue deliveries, exchange and queue chips, the exchange page and inventory.</li>
+    <li><b>RPC colour:</b> olive <span class="mono">--t-rpc</span> for RPC over AMQP: arrow, reply, the server's bar, the chip, the RPC ingress group, RPC inventory rows and panel accents. Grape means messages on an exchange, olive means request and reply.</li>
+    <li><b>RPC key:</b> <span class="mono">amqp-rpc:{command}</span>.</li>
+    <li><b>Non-matching bindings</b> in a flow: kept as one muted line with the count and the keys.</li>
+    <li><b><span class="mono">sendToQueue</span></b> through the default exchange: drawn straight service → queue, no exchange lifeline, like SQS (frame 1 table).</li>
+    <li><b>Route:</b> the exchange page is <span class="mono">#/instances/amqp%3A{name}</span>.</li>
   </ol></section>
 </div>
 
